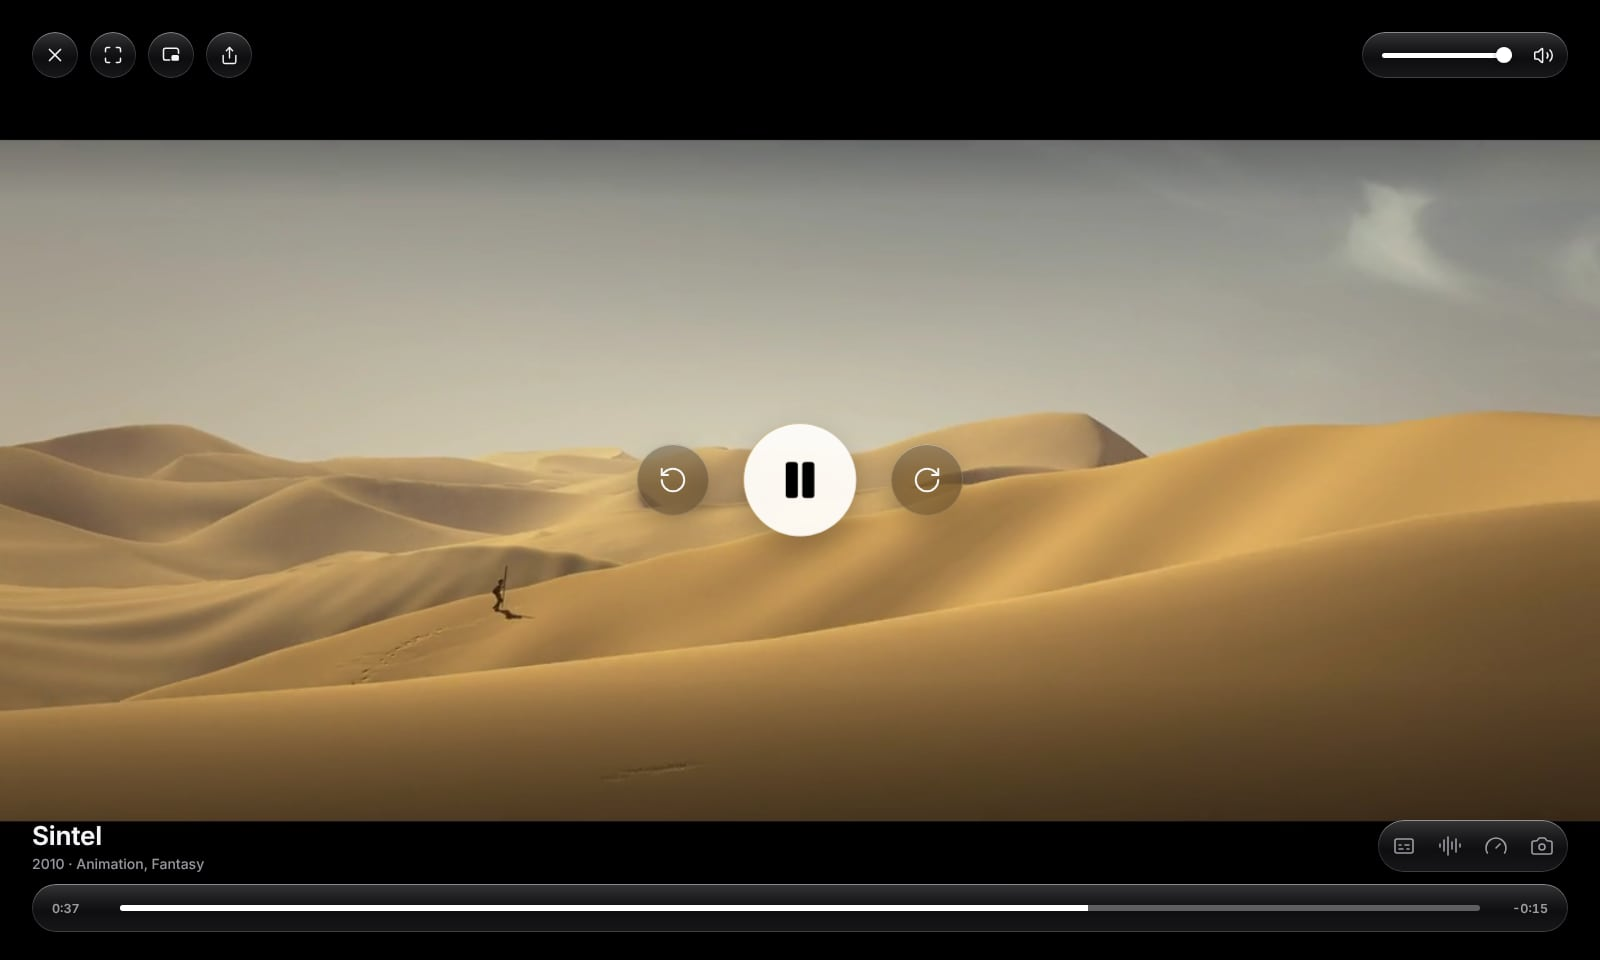
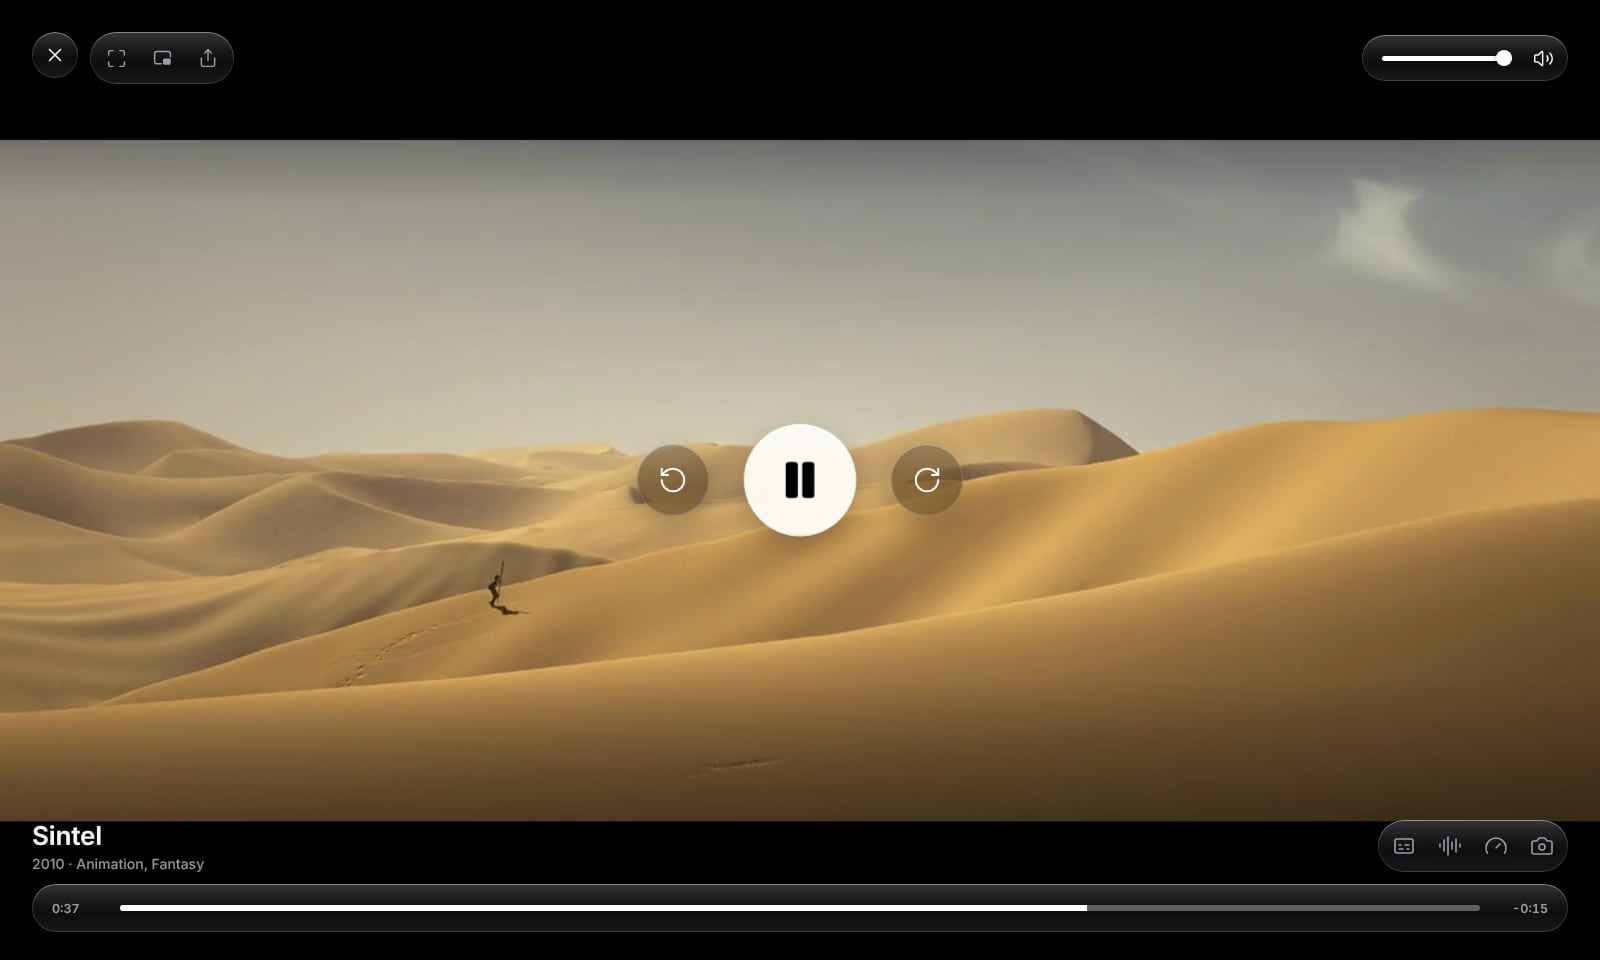
Player: group full screen, picture in picture and share into one pill
Matches the tools pill in the lower right; close stays its own button.

Claude-Session: https://claude.ai/code/session_016wU2sGVtbDSBFLYG8XT1qE

diff --git a/src/renderer/src/screens/Player.tsx b/src/renderer/src/screens/Player.tsx
@@ -906,17 +906,19 @@ export function Player({ itemId, episodeId, fileId, url: streamUrl, title: strea
                 <button className="pl-close glass" onClick={exit} aria-label="Close">
                   <X size={22} strokeWidth={1.8} />
                 </button>
-                <button className="pl-close glass" onClick={toggleFullscreen} aria-label={fullscreen ? 'Exit Full Screen' : 'Full Screen'}>
-                  {fullscreen ? <Minimize size={20} strokeWidth={1.8} /> : <Maximize size={20} strokeWidth={1.8} />}
-                </button>
-                <button className="pl-close glass" onClick={togglePip} aria-label="Picture in Picture">
-                  <PipIcon size={20} strokeWidth={1.8} />
-                </button>
-                <div className="popover-anchor">
-                  <button className={`pl-close glass ${menu === 'share' ? 'is-active' : ''}`} onClick={() => setMenu(menu === 'share' ? null : 'share')} aria-label="Share">
-                    <Share size={19} strokeWidth={1.8} />
+                <div className="pl-tools glass">
+                  <button className="pl-btn" onClick={toggleFullscreen} aria-label={fullscreen ? 'Exit Full Screen' : 'Full Screen'}>
+                    {fullscreen ? <Minimize size={21} strokeWidth={1.7} /> : <Maximize size={21} strokeWidth={1.7} />}
                   </button>
-                  {menu === 'share' && <Popover title="Share" align="left" options={menuOptions()} onClose={() => setMenu(null)} />}
+                  <button className="pl-btn" onClick={togglePip} aria-label="Picture in Picture">
+                    <PipIcon size={21} strokeWidth={1.7} />
+                  </button>
+                  <div className="popover-anchor">
+                    <button className={`pl-btn ${menu === 'share' ? 'is-active' : ''}`} onClick={() => setMenu(menu === 'share' ? null : 'share')} aria-label="Share">
+                      <Share size={20} strokeWidth={1.7} />
+                    </button>
+                    {menu === 'share' && <Popover title="Share" align="left" options={menuOptions()} onClose={() => setMenu(null)} />}
+                  </div>
                 </div>
               </div>
               <div className="pl-volume glass" onClick={(e) => e.stopPropagation()}>
